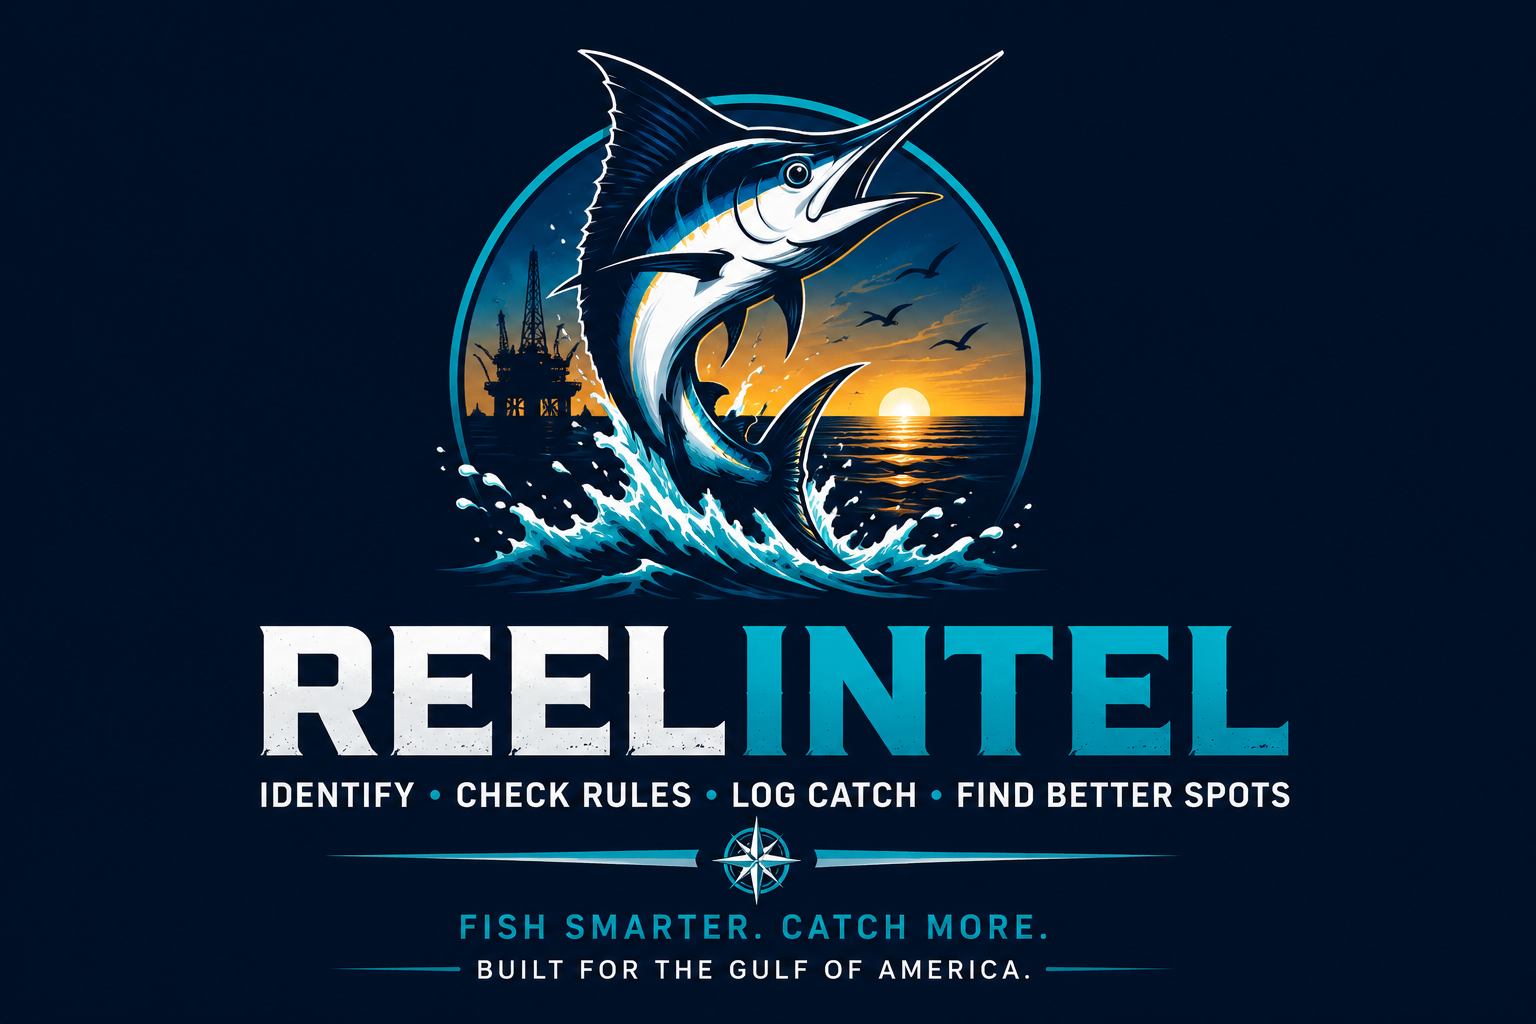
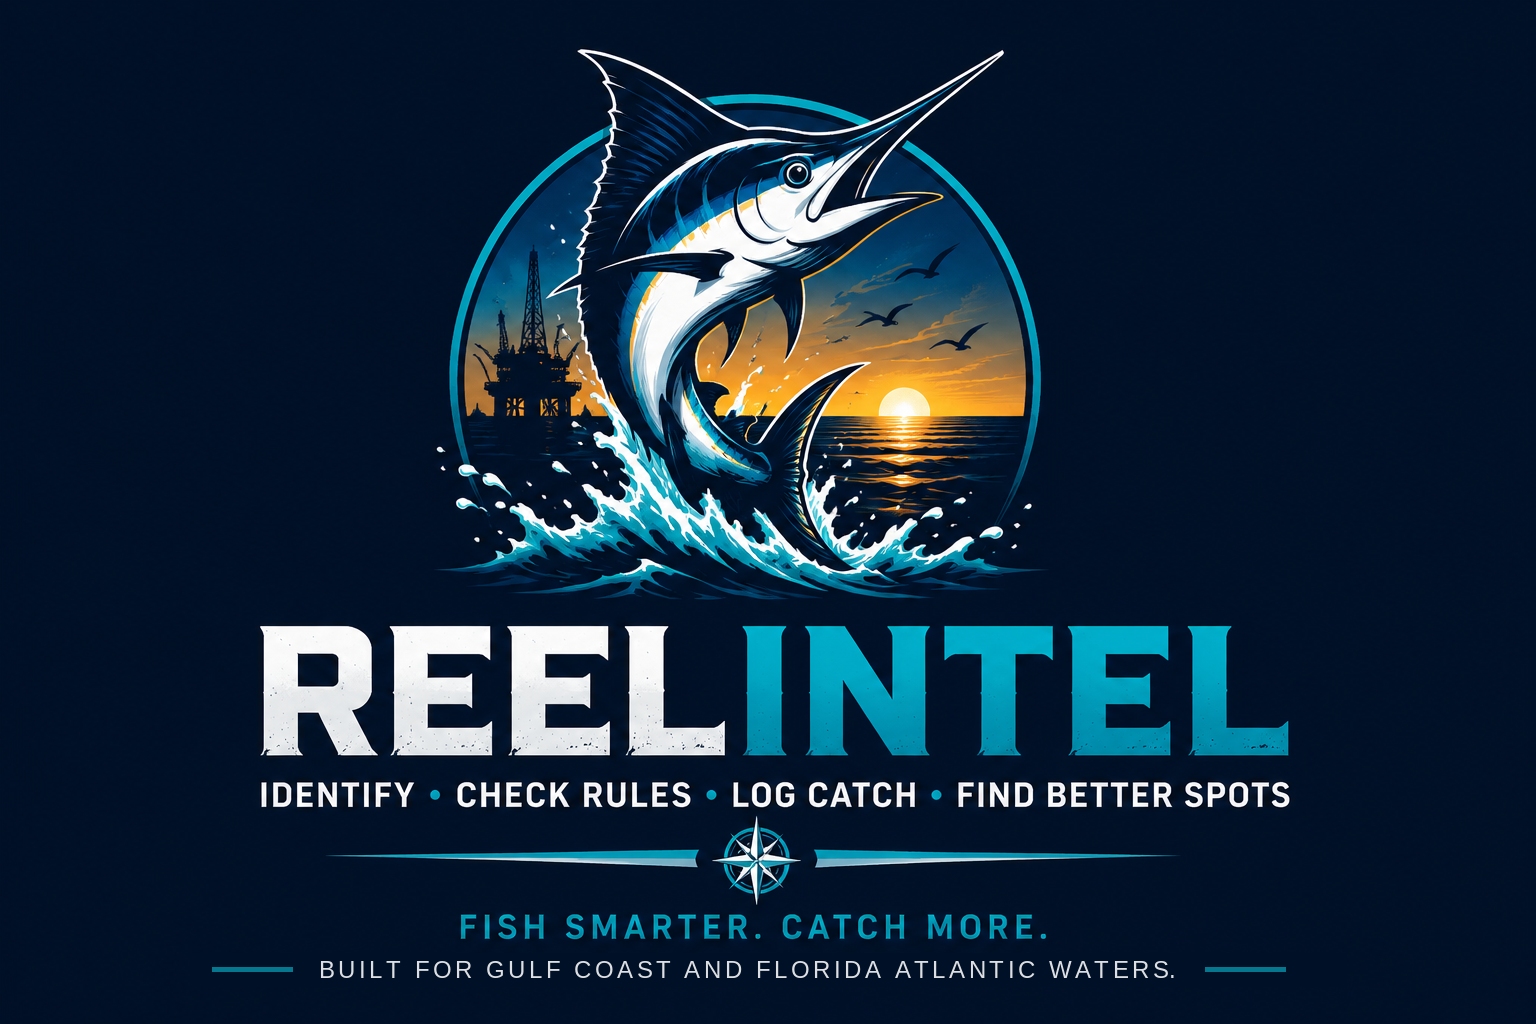
feat: add Florida Atlantic + Federal South Atlantic jurisdictions
Adds Atlantic-coast coverage: fl_atlantic (FWC Atlantic state waters, 3nm)
and fed_satlantic (NOAA/SAFMC). They auto-appear in every jurisdiction
picker and the admin research/verified pipeline (all iterate JURISDICTIONS).

Critically, the Atlantic jurisdictions do NOT inherit the Gulf `default`
seed values — SAFMC/FWC-Atlantic seasons and limits genuinely differ, and
showing Gulf numbers as Atlantic law would be exactly the "confidently
wrong" failure this app avoids. Instead they seed as honest, unverified
"verify with FWC Atlantic / SAFMC" placeholders with the correct Atlantic
source links; accurate values fill in via the verified overlay + admin
research (same as Gulf verified data). Federal fallback is now coast-aware
(Atlantic → fed_satlantic, else fed_gulf) in the resolver and the
"differs from federal" comparison.

Also updates the splash brand tagline to "Built for Gulf Coast and Florida
Atlantic waters" (image + alt text) to match the expanded coverage.

Claude-Session: https://claude.ai/code/session_01RC6Pur8PsxtmZHxsBT9uoF

Changed region(s): [[0.1562, 0.9375, 0.75, 0.9688], [0.7812, 0.9375, 0.8438, 0.9688]]

diff --git a/src/data.js b/src/data.js
@@ -13,10 +13,12 @@ import gulfFederal2026 from '../regulations/feed/gulf-federal-2026.json';
 export const JURISDICTIONS = [
   { id: 'al_state', name: 'Alabama State Waters', short: 'AL', agency: 'Alabama DCNR', boundary: '3 nm', regsUrl: 'https://www.outdooralabama.com/fishing/saltwater-fishing' },
   { id: 'fl_state', name: 'Florida Gulf State Waters', short: 'FL', agency: 'FWC', boundary: '9 nm', regsUrl: 'https://myfwc.com/fishing/saltwater/recreational/' },
+  { id: 'fl_atlantic', name: 'Florida Atlantic State Waters', short: 'FL-ATL', agency: 'FWC', boundary: '3 nm', coast: 'atlantic', regsUrl: 'https://myfwc.com/fishing/saltwater/recreational/' },
   { id: 'ms_state', name: 'Mississippi State Waters', short: 'MS', agency: 'MDMR', boundary: '3 nm', regsUrl: 'https://dmr.ms.gov/' },
   { id: 'la_state', name: 'Louisiana State Waters', short: 'LA', agency: 'LDWF', boundary: '3 nm', regsUrl: 'https://www.wlf.louisiana.gov/' },
   { id: 'tx_state', name: 'Texas State Waters', short: 'TX', agency: 'TPWD', boundary: '9 nm', regsUrl: 'https://tpwd.texas.gov/regulations/outdoor-annual/fishing/saltwater-fishing' },
   { id: 'fed_gulf', name: 'Federal Gulf Waters', short: 'FED', agency: 'NOAA / GMFMC', boundary: 'Beyond state waters', regsUrl: 'https://www.fisheries.noaa.gov/southeast/recreational-fishing/recreational-fishing-gulf-mexico' },
+  { id: 'fed_satlantic', name: 'Federal South Atlantic Waters', short: 'FED-SA', agency: 'NOAA / SAFMC', boundary: 'Beyond state waters', coast: 'atlantic', regsUrl: 'https://www.fisheries.noaa.gov/southeast/recreational-fishing/recreational-fishing-south-atlantic' },
 ];
 
 export const CATEGORIES = [
@@ -544,6 +546,19 @@ export const COMPARISONS = {
 function buildRegs() {
   const reefGear = ['Non-stainless circle hooks (natural bait)', 'Descending device (rigged, 16+ oz)', 'Venting tool (rigged)'];
   const states = ['al_state','fl_state','ms_state','la_state','tx_state','fed_gulf'];
+  // Atlantic-coast jurisdictions are managed SEPARATELY (FWC Atlantic /
+  // SAFMC / ASMFC) and their seasons + limits genuinely differ from the
+  // Gulf. They therefore must NOT inherit the Gulf `default` numbers —
+  // showing a Gulf bag/size limit as if it were Atlantic law is exactly
+  // the "confidently wrong" failure this app exists to prevent. Instead
+  // they get an honest, unverified "verify with the agency" placeholder
+  // (with correct Atlantic source links via JURISDICTIONS), and the
+  // verified Supabase overlay / admin research pipeline fills in accurate
+  // values over time — same as how Gulf verified data already works. An
+  // explicit spec.fl_atlantic / spec.fed_satlantic override is still
+  // honored when the seed already knows a coastwide-correct value.
+  const atlanticJurs = ['fl_atlantic','fed_satlantic'];
+  const ATL_NOTE = 'Atlantic-coast rules differ from the Gulf and are set separately (FWC Atlantic / SAFMC / ASMFC). These values are not yet verified for the Atlantic — confirm the current rule with the agency before you keep a fish.';
   function R(spec) {
     const out = {};
     for (const s of states) {
@@ -556,6 +571,23 @@ function buildRegs() {
         ...spec.default,
         ...(spec[s] || {}),
       };
+    }
+    for (const s of atlanticJurs) {
+      const override = spec[s];
+      out[s] = override
+        ? { lastUpdated: '2025-04-01', source: spec.source || 'agency website', verified: false, ...override }
+        : {
+            lastUpdated: '2025-04-01',
+            source: s === 'fed_satlantic' ? 'fisheries.noaa.gov (SAFMC)' : 'myfwc.com (FWC Atlantic)',
+            verified: false,
+            open: 'Check current Atlantic season',
+            minSize: null, maxSize: null, bagLimit: null,
+            // Descending device / venting / non-stainless circle hooks are
+            // required in South Atlantic federal reef fisheries too, so the
+            // gear guidance carries over even while numeric limits don't.
+            ...(spec.default?.gear ? { gear: spec.default.gear } : {}),
+            notes: ATL_NOTE,
+          };
     }
     return out;
   }

diff --git a/src/screens2.jsx b/src/screens2.jsx
@@ -15,7 +15,7 @@ import {
   savePhoto, deletePhoto, photoThumbUrl, photoDisplayUrl, photoAsDataUrl,
 } from './photos-store.js';
 import {
-  speciesById, jurisdictionById, getComparison,
+  speciesById, jurisdictionById, federalJurisdictionFor, getComparison,
   formatSize, formatWeight, regStatus, differs, cleanSeason, seasonState, speciesPhoto,
   sunPosition, moonPhase, buildPBReport, buildCatchReport, pbPhotos, catchPhotos, appleMapsLink,
   shareReport, fetchWeatherForTime, PROHIBITED_RE,
@@ -75,11 +75,12 @@ export function SpeciesDetailScreen({ id, state, jurisdiction, stale, onLookalik
   const heroHeight   = size === 'phone' ? 220 : size === 'tablet' ? 300 : 340;
   const fallbackSize = size === 'phone' ? 100 : 200;
   const reg = jurisdiction ? regulationFor(id, jurisdiction.id).regulation : null;
-  const fedReg = regulationFor(id, 'fed_gulf').regulation;
+  const fedId = federalJurisdictionFor(jurisdiction);
+  const fedReg = regulationFor(id, fedId).regulation;
   // No comparison column when the state view is ALREADY showing the
   // federal rules via fallback — it would compare federal to itself.
   const showFedColumn = reg && fedReg && !reg._fromFed
-    && jurisdiction?.id !== 'fed_gulf' && differs(reg, fedReg);
+    && jurisdiction?.id !== fedId && differs(reg, fedReg);
   const pb = state.pbs[id];
 
   const saveNote = () => {
@@ -943,11 +944,12 @@ export function RegulationDetailScreen({ id, state, jurisdiction, stale, onSpeci
   const reg          = regResult.regulation;
   const regRow       = regResult.row || null; // raw Supabase row when source='verified'
   const regSource    = regResult.source;
-  const fedReg = regulationFor(id, 'fed_gulf').regulation;
+  const fedId = federalJurisdictionFor(jurisdiction);
+  const fedReg = regulationFor(id, fedId).regulation;
   // No comparison column when the state view is ALREADY showing the
   // federal rules via fallback — it would compare federal to itself.
   const showFedColumn = reg && fedReg && !reg._fromFed
-    && jurisdiction?.id !== 'fed_gulf' && differs(reg, fedReg);
+    && jurisdiction?.id !== fedId && differs(reg, fedReg);
   const pb = state.pbs?.[id];
   return (
     <div style={{ padding: isTablet ? '22px 22px' : '16px 16px' }}>

diff --git a/src/screens1.jsx b/src/screens1.jsx
@@ -15,7 +15,7 @@ import {
 import { regulationFor } from './regulations-store.js';
 import { defaultState, saveState } from './storage.js';
 import {
-  speciesById, jurisdictionById, getComparison,
+  speciesById, jurisdictionById, federalJurisdictionFor, getComparison,
   formatSize, formatWeight, regStatus, differs, seasonState,
   sunPosition, moonPhase, fetchWeatherForTime, catchPhotos,
   pbPhotos, buildPBReport, shareReport,
@@ -66,7 +66,7 @@ export function SplashScreen({
     >
       <img
         src={brandAsset('logo_brand', `${import.meta.env.BASE_URL}brand/reelintel-brand.png`)}
-        alt="ReelIntel — identify, check rules, log catch, find better spots. Built for the Gulf of America."
+        alt="ReelIntel — identify, check rules, log catch, find better spots. Built for Gulf Coast and Florida Atlantic waters."
         style={{
           maxWidth: 'min(92vw, 460px)',
           maxHeight: showCTAs ? '54vh' : '82vh',
@@ -108,12 +108,13 @@ export function SplashScreen({
 const FEATURED_IDS = ['red_snapper', 'king_mackerel', 'gag_grouper', 'mahi', 'greater_amberjack', 'cobia', 'wahoo'];
 
 function regForSpecies(id, jurId) {
-  // Prefer the exact jurisdiction, then federal Gulf, then any
+  // Prefer the exact jurisdiction, then the coast-correct federal
+  // fallback (Atlantic → South Atlantic, otherwise Gulf), then any
   // verified/bundled row we can find. regulationFor() walks the
   // verified Supabase overlay → bundled precedence per lookup.
   const primary = regulationFor(id, jurId).regulation;
   if (primary) return primary;
-  const fed = regulationFor(id, 'fed_gulf').regulation;
+  const fed = regulationFor(id, federalJurisdictionFor(jurId)).regulation;
   if (fed) return fed;
   return null;
 }

diff --git a/src/regulations-store.js b/src/regulations-store.js
@@ -16,7 +16,14 @@
    without a round-trip. */
 
 import { client } from './supabase-client.js';
-import { REGULATIONS as BUNDLED_REGS } from './data.js';
+import { REGULATIONS as BUNDLED_REGS, JURISDICTIONS } from './data.js';
+
+// The correct federal fallback depends on the coast: an Atlantic-coast
+// jurisdiction must fall back to Federal South Atlantic, never Federal
+// Gulf (cross-coast rules are simply wrong). Gulf/default → fed_gulf.
+const _COAST = Object.fromEntries(JURISDICTIONS.map(j => [j.id, j.coast || 'gulf']));
+const federalFallbackFor = (jurId) =>
+  _COAST[jurId] === 'atlantic' ? 'fed_satlantic' : 'fed_gulf';
 
 const CACHE_KEY = 'kyc_regulations_overlay_v1';
 
@@ -149,12 +156,14 @@ export function regulationFor(speciesId, jurisdictionId) {
   };
 
   let result = resolveAt(jurisdictionId);
-  // Fed fallback — only for STATE jurisdictions (fed_gulf falling
-  // back to itself would loop). Same resolve, so a verified fed row
-  // gets the identical per-field bundled merge it gets when viewed
-  // directly as Federal Gulf.
-  if (!result && jurisdictionId !== 'fed_gulf') {
-    const fed = resolveAt('fed_gulf');
+  // Fed fallback — only for STATE jurisdictions (a federal jurisdiction
+  // falling back to itself would loop). Coast-aware: Atlantic state
+  // waters fall back to Federal South Atlantic, Gulf state waters to
+  // Federal Gulf. Same resolve, so a verified fed row gets the identical
+  // per-field bundled merge it gets when viewed directly.
+  const fedId = federalFallbackFor(jurisdictionId);
+  if (!result && jurisdictionId !== fedId) {
+    const fed = resolveAt(fedId);
     if (fed) {
       result = {
         source: `${fed.source}-fed`, // 'verified-fed' | 'bundled-fed'

diff --git a/src/helpers.js b/src/helpers.js
@@ -29,6 +29,14 @@ export function speciesPhoto(id) {
 export const speciesById = (id) => SPECIES.find(s => s.id === id);
 export const jurisdictionById = (id) => JURISDICTIONS.find(j => j.id === id);
 
+// The federal jurisdiction that governs a given jurisdiction's coast.
+// Atlantic-coast waters answer to Federal South Atlantic (SAFMC); all
+// others to Federal Gulf (GMFMC). Accepts an id or a jurisdiction object.
+export const federalJurisdictionFor = (jur) => {
+  const coast = (typeof jur === 'string' ? jurisdictionById(jur) : jur)?.coast;
+  return coast === 'atlantic' ? 'fed_satlantic' : 'fed_gulf';
+};
+
 export function getComparison(idA, idB) {
   const k1 = `${idA}:${idB}`;
   const k2 = `${idB}:${idA}`;
